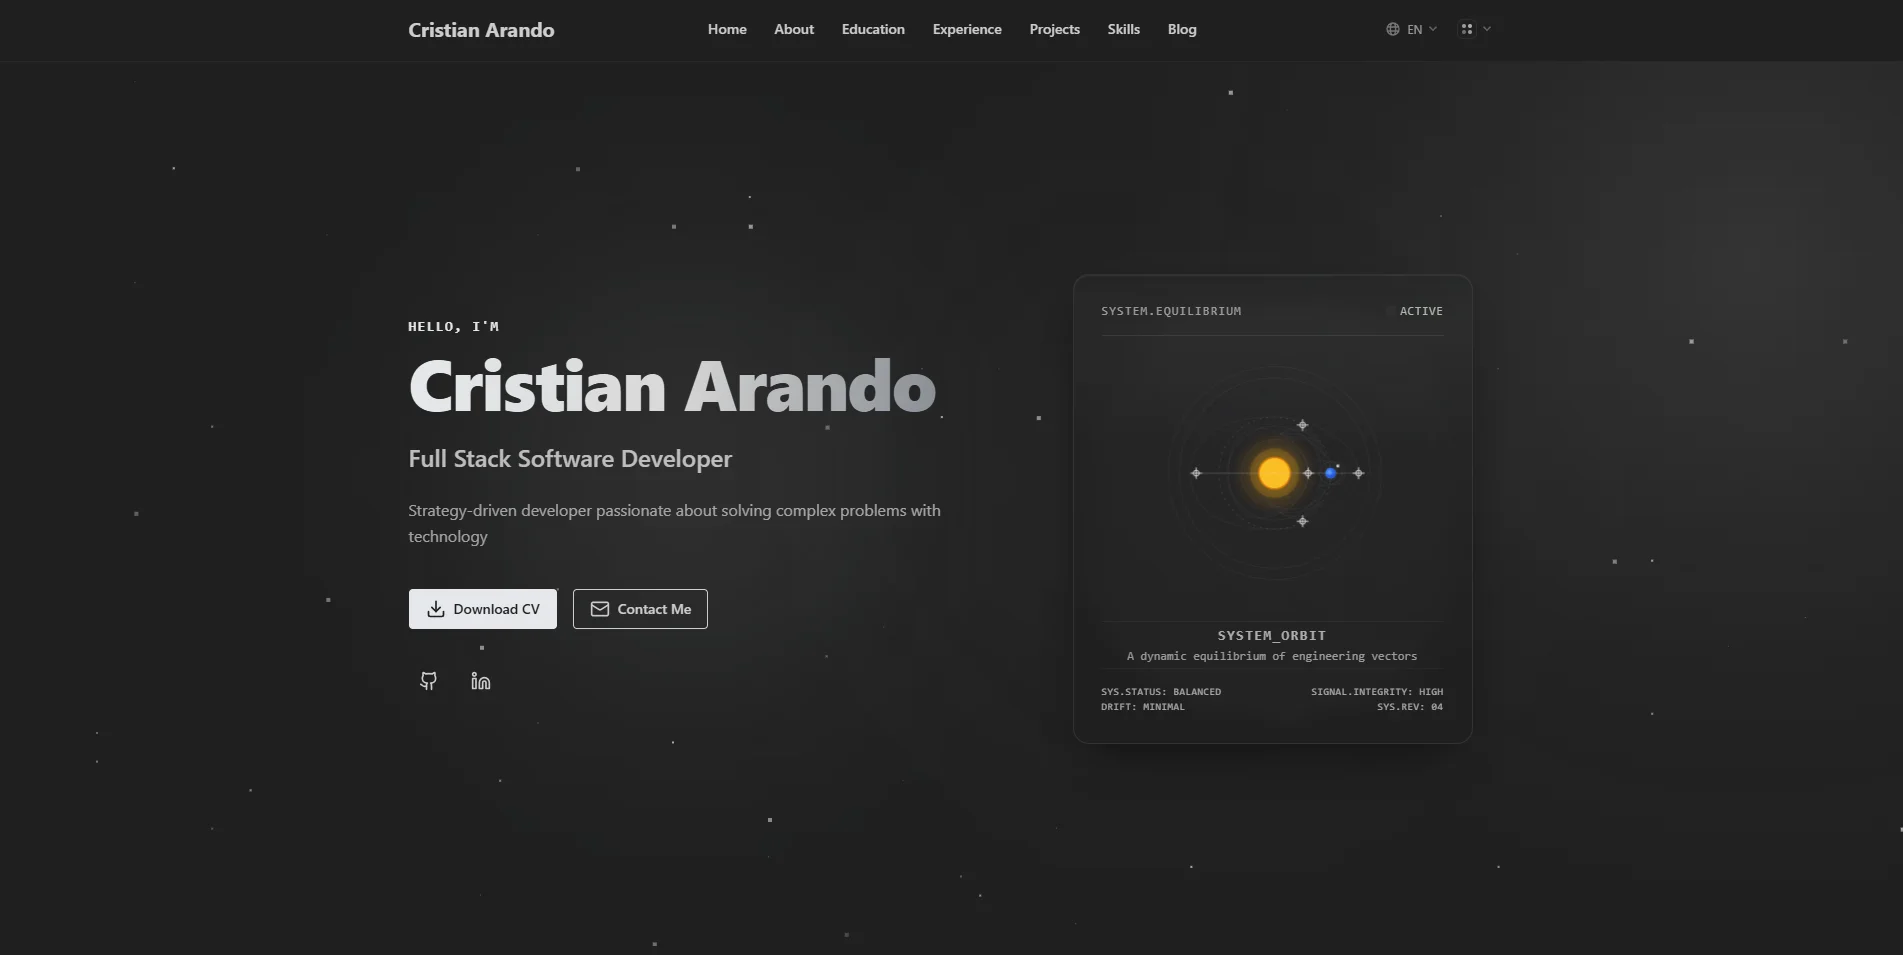
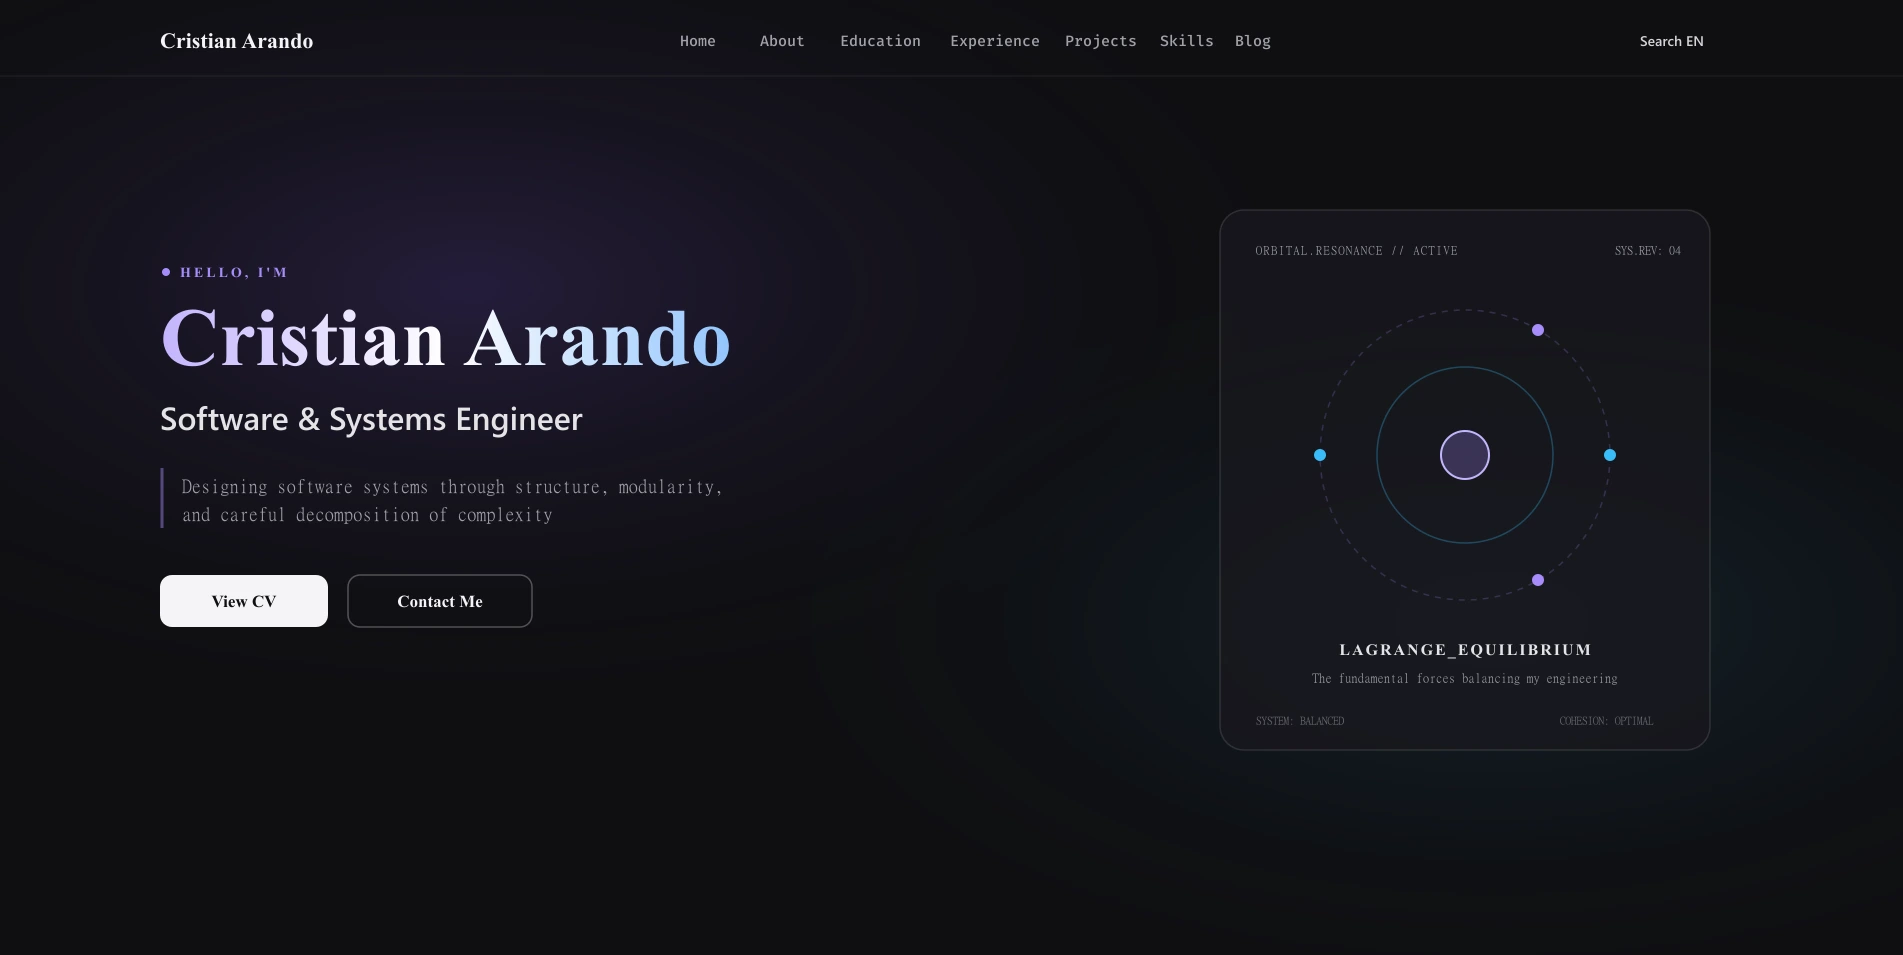
feat(ux): update CV CTA to View CV, improve typography, and complete UI localization

diff --git a/scripts/generate-assets.ts b/scripts/generate-assets.ts
@@ -1,0 +1,105 @@
+import sharp from "sharp";
+import { SITE } from "../src/config/site.ts";
+import { ui } from "../src/i18n/ui.ts";
+
+const width = 1903;
+const height = 955;
+
+function escapeXml(text: string): string {
+  return text
+    .replace(/&/g, "&amp;")
+    .replace(/</g, "&lt;")
+    .replace(/>/g, "&gt;")
+    .replace(/"/g, "&quot;")
+    .replace(/'/g, "&apos;");
+}
+
+async function generateManifestScreenshot() {
+  const name = escapeXml(SITE.name);
+  const role = escapeXml(ui.en["home.subtitle"]);
+  const tagline = escapeXml(ui.en["home.tagline"]);
+  const ctaPrimary = escapeXml(ui.en["home.downloadCv"]);
+  const ctaSecondary = escapeXml(ui.en["home.contactMe"]);
+
+  const svg = `<svg xmlns="http://www.w3.org/2000/svg" width="${width}" height="${height}" viewBox="0 0 ${width} ${height}">
+  <defs>
+    <radialGradient id="nebula1" cx="25%" cy="30%" r="45%">
+      <stop offset="0%" stop-color="#8b5cf6" stop-opacity="0.18"/>
+      <stop offset="100%" stop-color="#0f0f12" stop-opacity="0"/>
+    </radialGradient>
+    <radialGradient id="nebula2" cx="78%" cy="65%" r="40%">
+      <stop offset="0%" stop-color="#38bdf8" stop-opacity="0.12"/>
+      <stop offset="100%" stop-color="#0f0f12" stop-opacity="0"/>
+    </radialGradient>
+    <linearGradient id="titleGrad" x1="0%" y1="0%" x2="100%" y2="0%">
+      <stop offset="0%" stop-color="#c4b5fd"/>
+      <stop offset="50%" stop-color="#ffffff"/>
+      <stop offset="100%" stop-color="#93c5fd"/>
+    </linearGradient>
+  </defs>
+  <rect width="${width}" height="${height}" fill="#0f0f12"/>
+  <rect width="${width}" height="${height}" fill="url(#nebula1)"/>
+  <rect width="${width}" height="${height}" fill="url(#nebula2)"/>
+
+  <!-- Header Navigation Bar -->
+  <line x1="0" y1="76" x2="${width}" y2="76" stroke="rgba(255,255,255,0.08)" stroke-width="1"/>
+  <text x="160" y="48" fill="#f4f4f6" font-family="Inter, system-ui, sans-serif" font-size="22" font-weight="700">${name}</text>
+  <g fill="#a1a1aa" font-family="Inter, system-ui, sans-serif" font-size="15" font-weight="500">
+    <text x="680" y="46">Home</text>
+    <text x="760" y="46">About</text>
+    <text x="840" y="46">Education</text>
+    <text x="950" y="46">Experience</text>
+    <text x="1065" y="46">Projects</text>
+    <text x="1160" y="46">Skills</text>
+    <text x="1235" y="46">Blog</text>
+  </g>
+  <text x="1640" y="46" fill="#d4d4d8" font-family="Inter, system-ui, sans-serif" font-size="14" font-weight="600">Search   EN</text>
+
+  <!-- Left Column: Hero Content -->
+  <circle cx="166" cy="272" r="4" fill="#a78bfa"/>
+  <text x="180" y="277" fill="#a78bfa" font-family="monospace" font-size="14" font-weight="700" letter-spacing="3">HELLO, I&apos;M</text>
+  <text x="160" y="365" fill="url(#titleGrad)" font-family="Inter, system-ui, sans-serif" font-size="82" font-weight="800">${name}</text>
+  <text x="160" y="430" fill="#e4e4e7" font-family="Inter, system-ui, sans-serif" font-size="32" font-weight="600">${role}</text>
+
+  <line x1="162" y1="468" x2="162" y2="528" stroke="rgba(167,139,250,0.45)" stroke-width="3"/>
+  <text x="182" y="492" fill="#a1a1aa" font-family="Inter, system-ui, sans-serif" font-size="19">${tagline.slice(0, 58)}</text>
+  <text x="182" y="520" fill="#a1a1aa" font-family="Inter, system-ui, sans-serif" font-size="19">${tagline.slice(58).trim()}</text>
+
+  <!-- CTA Buttons -->
+  <rect x="160" y="575" width="168" height="52" rx="12" fill="#f4f4f6"/>
+  <text x="244" y="607" fill="#0f0f12" font-family="Inter, system-ui, sans-serif" font-size="17" font-weight="700" text-anchor="middle">${ctaPrimary}</text>
+
+  <rect x="348" y="575" width="184" height="52" rx="12" fill="none" stroke="rgba(255,255,255,0.28)" stroke-width="1.5"/>
+  <text x="440" y="607" fill="#f4f4f6" font-family="Inter, system-ui, sans-serif" font-size="17" font-weight="700" text-anchor="middle">${ctaSecondary}</text>
+
+  <!-- Right Column: Lagrange Equilibrium Card -->
+  <rect x="1220" y="210" width="490" height="540" rx="24" fill="rgba(24,24,30,0.85)" stroke="rgba(255,255,255,0.12)" stroke-width="1.5"/>
+  <text x="1256" y="254" fill="#a1a1aa" font-family="monospace" font-size="12" letter-spacing="1.5">ORBITAL.RESONANCE // ACTIVE</text>
+  <text x="1615" y="254" fill="#a1a1aa" font-family="monospace" font-size="12">SYS.REV: 04</text>
+
+  <circle cx="1465" cy="455" r="145" fill="none" stroke="rgba(167,139,250,0.22)" stroke-width="1.5" stroke-dasharray="6 6"/>
+  <circle cx="1465" cy="455" r="88" fill="none" stroke="rgba(56,189,248,0.3)" stroke-width="1.5"/>
+  <circle cx="1465" cy="455" r="24" fill="rgba(167,139,250,0.25)" stroke="#c4b5fd" stroke-width="2"/>
+  <circle cx="1320" cy="455" r="6" fill="#38bdf8"/>
+  <circle cx="1610" cy="455" r="6" fill="#38bdf8"/>
+  <circle cx="1538" cy="330" r="6" fill="#a78bfa"/>
+  <circle cx="1538" cy="580" r="6" fill="#a78bfa"/>
+
+  <text x="1465" y="655" fill="#e4e4e7" font-family="monospace" font-size="16" font-weight="700" letter-spacing="2" text-anchor="middle">LAGRANGE_EQUILIBRIUM</text>
+  <text x="1465" y="682" fill="#a1a1aa" font-family="Inter, system-ui, sans-serif" font-size="13" text-anchor="middle">The fundamental forces balancing my engineering</text>
+  <text x="1256" y="724" fill="#71717a" font-family="monospace" font-size="11">SYSTEM: BALANCED</text>
+  <text x="1560" y="724" fill="#71717a" font-family="monospace" font-size="11">COHESION: OPTIMAL</text>
+</svg>`;
+
+  await sharp(Buffer.from(svg))
+    .webp({ quality: 92 })
+    .toFile("public/screenshot.webp");
+  console.log(
+    `Generated public/screenshot.webp (${width}x${height}) with "${SITE.jobTitle}" and "${ui.en["home.downloadCv"]}".`,
+  );
+}
+
+generateManifestScreenshot().catch((err: unknown) => {
+  console.error("Failed to generate assets:", err);
+  process.exit(1);
+});

diff --git a/src/i18n/locales/ru/home.ts b/src/i18n/locales/ru/home.ts
@@ -17,7 +17,7 @@ export const home = {
   "home.subtitle": "Инженер программного обеспечения и систем",
   "home.tagline":
     "Проектирование программных систем через структуру, модульность и тщательную декомпозицию сложности",
-  "home.downloadCv": "Скачать резюме",
+  "home.downloadCv": "Посмотреть резюме",
   "home.contactMe": "Связаться со мной",
   "site.title": "Кристиан Арандо | Инженер программного обеспечения и систем",
   "site.description":
@@ -104,9 +104,10 @@ export const home = {
   "blog.share": "Поделиться:",
   "blog.shareCopied": "Скопировано!",
   "blog.relatedPosts": "Похожие статьи",
+  "blog.faq": "Часто задаваемые вопросы",
 
   "nav.uses": "Инструменты",
-  "uses.title": "/uses",
+  "uses.title": "Инструменты и окружение",
   "uses.subtitle": "// Оборудование и Софт",
   "uses.subtitlePage":
     "Подробный список оборудования, программного обеспечения и инструментов, которые я использую ежедневно для создания программных систем.",

diff --git a/src/i18n/locales/ja/home.ts b/src/i18n/locales/ja/home.ts
@@ -17,7 +17,7 @@ export const home = {
   "home.subtitle": "ソフトウェア＆システムエンジニア",
   "home.tagline":
     "構造、モジュール性、そして複雑さの注意深い分解を通じてソフトウェアシステムを設計する",
-  "home.downloadCv": "履歴書をダウンロード",
+  "home.downloadCv": "履歴書を見る",
   "home.contactMe": "お問い合わせ",
   "site.title": "クリスティアン・アランド | ソフトウェア＆システムエンジニア",
   "site.description":
@@ -104,9 +104,10 @@ export const home = {
   "blog.share": "共有:",
   "blog.shareCopied": "コピーしました！",
   "blog.relatedPosts": "関連記事",
+  "blog.faq": "よくある質問",
 
   "nav.uses": "愛用ツール",
-  "uses.title": "/uses",
+  "uses.title": "愛用ツールと開発環境",
   "uses.subtitle": "// 愛用ツール＆環境",
   "uses.subtitlePage":
     "ソフトウェアシステムの設計や構築にあたって、私が日々愛用しているハードウェア、ソフトウェア、開発ツールの一覧です。",

diff --git a/src/i18n/locales/de/home.ts b/src/i18n/locales/de/home.ts
@@ -17,7 +17,7 @@ export const home = {
   "home.subtitle": "Software- & Systemingenieur",
   "home.tagline":
     "Entwurf von Softwaresystemen durch Struktur, Modulbauweise und sorgfältige Dekomposition von Komplexität",
-  "home.downloadCv": "Lebenslauf herunterladen",
+  "home.downloadCv": "Lebenslauf ansehen",
   "home.contactMe": "Kontaktiere mich",
   "site.title": "Cristian Arando | Software- & Systemingenieur",
   "site.description":
@@ -104,9 +104,10 @@ export const home = {
   "blog.share": "Teilen:",
   "blog.shareCopied": "Kopiert!",
   "blog.relatedPosts": "Ähnliche Artikel",
+  "blog.faq": "Häufig gestellte Fragen",
 
   "nav.uses": "Tech-Stack",
-  "uses.title": "/uses",
+  "uses.title": "Setup & Werkzeuge",
   "uses.subtitle": "// Hardware & Software",
   "uses.subtitlePage":
     "Eine detaillierte Liste der Hardware, Software und Tools, die ich täglich verwende, um Softwaresysteme zu entwickeln.",

diff --git a/src/i18n/locales/es/home.ts b/src/i18n/locales/es/home.ts
@@ -17,7 +17,7 @@ export const home = {
   "home.subtitle": "Ingeniero de Software y Sistemas",
   "home.tagline":
     "Diseño de sistemas de software mediante estructura, modularidad y una cuidadosa descomposición de la complejidad",
-  "home.downloadCv": "Descargar CV",
+  "home.downloadCv": "Ver CV",
   "home.contactMe": "Contáctame",
   "site.title": "Cristian Arando | Ingeniero de Software y Sistemas",
   "site.description":
@@ -104,9 +104,10 @@ export const home = {
   "blog.share": "Compartir:",
   "blog.shareCopied": "¡Copiado!",
   "blog.relatedPosts": "Artículos Relacionados",
+  "blog.faq": "Preguntas Frecuentes",
 
   "nav.uses": "Usos",
-  "uses.title": "/uses",
+  "uses.title": "Usos y Herramientas",
   "uses.subtitle": "// Herramientas y Workspace",
   "uses.subtitlePage":
     "Una lista detallada del hardware, software y herramientas que utilizo a diario para construir sistemas de software.",

diff --git a/src/i18n/locales/en/home.ts b/src/i18n/locales/en/home.ts
@@ -16,7 +16,7 @@ export const home = {
   "home.subtitle": "Software & Systems Engineer",
   "home.tagline":
     "Designing software systems through structure, modularity, and careful decomposition of complexity",
-  "home.downloadCv": "Download CV",
+  "home.downloadCv": "View CV",
   "home.contactMe": "Contact Me",
 
   "site.title": "Cristian Arando | Software & Systems Engineer",
@@ -112,6 +112,7 @@ export const home = {
   "blog.share": "Share:",
   "blog.shareCopied": "Copied!",
   "blog.relatedPosts": "Related Articles",
+  "blog.faq": "Frequently Asked Questions",
 
   "nav.uses": "Uses",
   "uses.title": "Uses",

diff --git a/src/i18n/locales/ru/header.ts b/src/i18n/locales/ru/header.ts
@@ -6,6 +6,7 @@ export const header = {
   "nav.projects": "Проекты",
   "nav.skills": "Навыки",
   "nav.blog": "Блог",
+  "nav.mainLabel": "Основная навигация",
   "nav.toggleMenu": "Переключить меню навигации",
   "nav.title": "Меню",
   "theme.title": "Сменить тему",

diff --git a/src/i18n/locales/ja/header.ts b/src/i18n/locales/ja/header.ts
@@ -6,6 +6,7 @@ export const header = {
   "nav.projects": "プロジェクト",
   "nav.skills": "スキル",
   "nav.blog": "ブログ",
+  "nav.mainLabel": "メインナビゲーション",
   "nav.toggleMenu": "ナビゲーションメニューの切り替え",
   "nav.title": "メニュー",
   "theme.title": "テーマ変更",

diff --git a/src/i18n/locales/es/header.ts b/src/i18n/locales/es/header.ts
@@ -6,6 +6,7 @@ export const header = {
   "nav.projects": "Proyectos",
   "nav.skills": "Habilidades",
   "nav.blog": "Blog",
+  "nav.mainLabel": "Navegación principal",
   "nav.toggleMenu": "Alternar menú de navegación",
   "nav.title": "Menú",
   "theme.title": "Cambiar tema",

diff --git a/src/i18n/locales/de/header.ts b/src/i18n/locales/de/header.ts
@@ -6,6 +6,7 @@ export const header = {
   "nav.projects": "Projekte",
   "nav.skills": "Fähigkeiten",
   "nav.blog": "Blog",
+  "nav.mainLabel": "Hauptnavigation",
   "nav.toggleMenu": "Navigationsmenü umschalten",
   "nav.title": "Menü",
   "theme.title": "Thema wechseln",

diff --git a/src/i18n/locales/en/header.ts b/src/i18n/locales/en/header.ts
@@ -6,6 +6,7 @@ export const header = {
   "nav.projects": "Projects",
   "nav.skills": "Skills",
   "nav.blog": "Blog",
+  "nav.mainLabel": "Main navigation",
   "nav.toggleMenu": "Toggle Navigation Menu",
   "nav.title": "Menu",
   "theme.title": "Change Theme",
